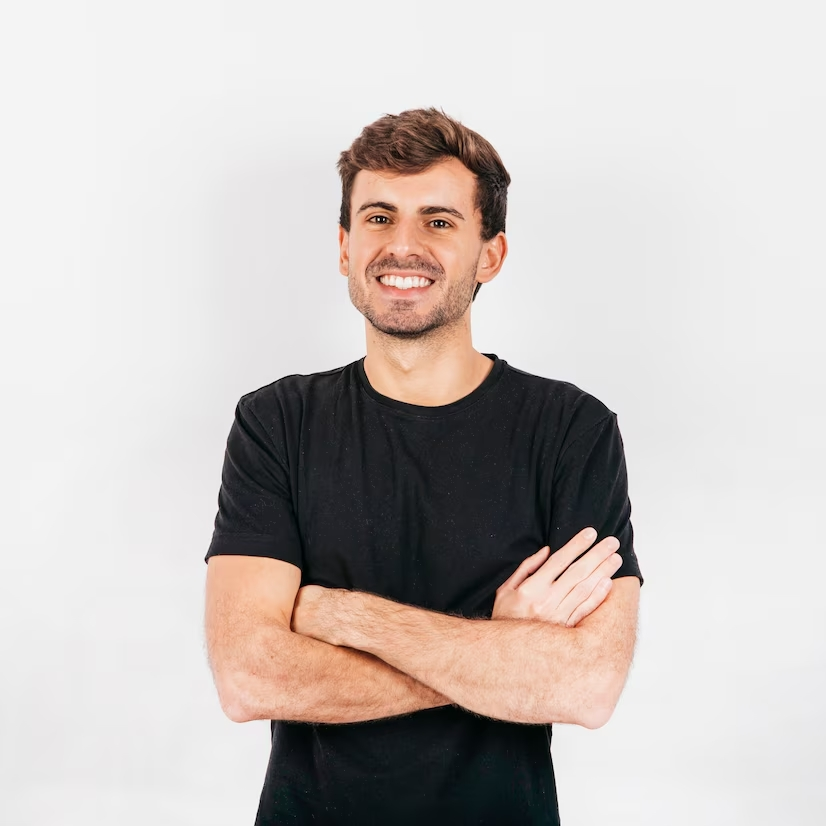
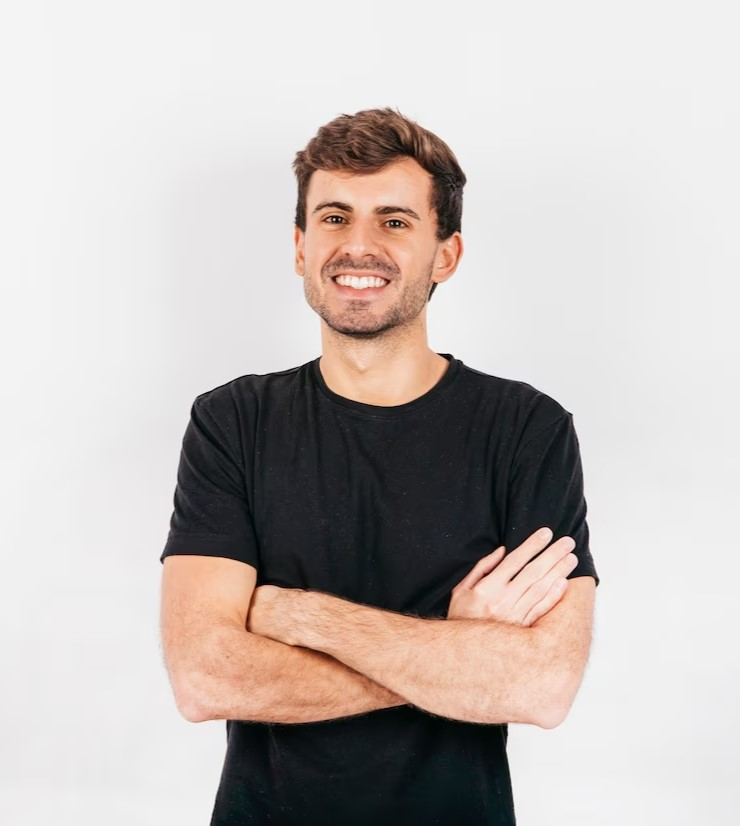
Ajustes seção 1 e 3

diff --git a/src/cabide-solidario/wwwroot/css/site.css b/src/cabide-solidario/wwwroot/css/site.css
@@ -38,13 +38,14 @@ body {
     font-size: 14px;
     line-height: 25px;
     margin:20px;
+    margin-left: 50px;
     text-align:justify;
+    font-weight:600;
 
 }
 
 .secao1-right {
     flex: 1;
-    width: 520px;
     display: flex;
     justify-content: center;
     align-items: center;
@@ -57,13 +58,39 @@ body {
 
 .secao3 {
     background-color: darkgoldenrod;
+
 }
 
 .secao3-title {
     text-align: center;
     text-transform: uppercase;
+    font-weight: 600;
+    font-size: 25px;
 }
 
-.secao3-box-area img {
+.secao3-container {
+    justify-content: center;
+    display: flex;
+    flex-wrap: wrap;
+    overflow: hidden;
+    margin: auto;
+}
+
+.secao3-box {
+    
+}
+
+.secao3-box-area {
+    margin: 30px;
+    margin-bottom: 50px;
+    display: inline-block;
+    width: 200px;
+}
+
+.secao3-avatar {
     height: 150px;
+}
+
+.secao3-descricao {
+    text-align: center;
 }
